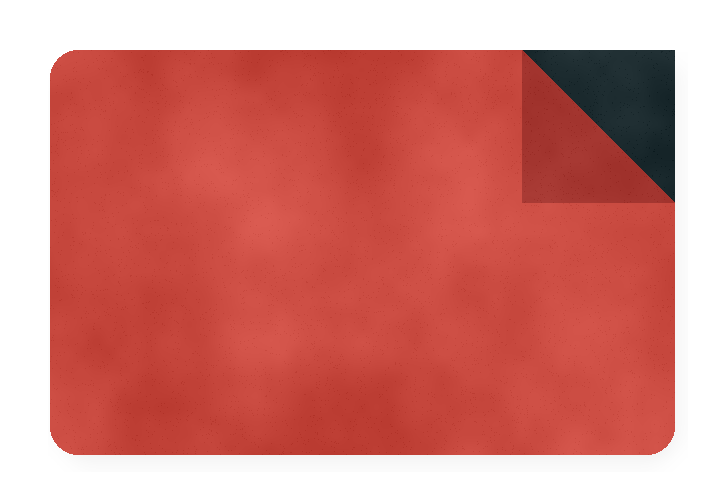
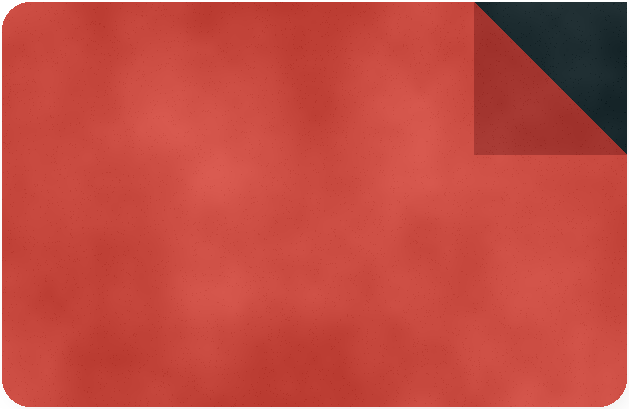
fix(arctable): dismiss pass panel on outside click; fix active plate layout
Crop transparent margins from pass-plate assets and tighten active-pass
grid/stacking so Hall pass content no longer sits under an inset red plate.
Close floating tool panels on pointerdown outside (Escape already handled).

diff --git a/src/styles/arctable.css b/src/styles/arctable.css
@@ -12,7 +12,7 @@
 .arctable-timer-control label,.arctable-cleanup-control label,.arctable-tool-panel label{display:grid;gap:5px;font-size:13px;font-weight:700}.arctable-timer-control input,.arctable-cleanup-control input,.arctable-tool-panel input,.arctable-tool-panel select{min-height:40px;padding:7px 9px;border:1px solid rgba(31,75,58,.24);border-radius:8px;background:#fffdf8;color:inherit}
 .arctable-presets,.arctable-timer-actions,.arctable-cleanup-control>div:last-child{display:flex;flex-wrap:wrap;gap:8px}.arctable-presets button,.arctable-timer-actions button,.arctable-cleanup-control button,.arctable-tool-panel button{min-height:40px;padding:8px 12px;border:1px solid rgba(31,75,58,.24);border-radius:999px;background:#fffdf8;color:#1f4b3a;font-weight:750;cursor:pointer}.arctable-timer-actions button:first-child,.arctable-cleanup-control>div:last-child button:first-child{background:#1f4b3a;color:#fff}
 .arctable-tool-row{grid-template-columns:repeat(3,1fr)}.arctable-tool-row button[aria-expanded='true']{box-shadow:inset 0 0 0 3px rgba(255,255,255,.62)}
-.arctable-tool-panel{position:relative;overflow:hidden}.arctable-tool-panel>*{position:relative;z-index:1}.arctable-tool-panel h2{margin:0;font:400 25px/1.1 'Instrument Serif',serif}.arctable-tool-panel form{display:grid;gap:8px}.arctable-tool-panel p{margin:0;color:#5d574f;line-height:1.35}.arctable-people-panel{background:rgba(225,233,213,.95) url('/assets/arctable/people-surface-open.png') right top/46% auto no-repeat}.arctable-picker-result{min-height:42px;padding:12px;border-radius:10px;background:#fffdf8;font-weight:800}.arctable-pass{display:grid;gap:8px;padding:13px 14px;border-radius:12px;background:#fffdf8 url('/assets/arctable/pass-plate-available.png') center/100% 100%}.arctable-pass--active{background-image:url('/assets/arctable/pass-plate-active.png');color:#fff}.arctable-pass>span{text-transform:capitalize}.arctable-pass>div{display:flex;flex-wrap:wrap;gap:6px}.arctable-pass--active button{background:#fff;color:#7d261f}.arctable-media-panel>button.is-active{background:#1f4b3a;color:#fff}
+.arctable-tool-panel{position:relative;overflow:hidden}.arctable-tool-panel>*{position:relative;z-index:1}.arctable-tool-panel h2{margin:0;font:400 25px/1.1 'Instrument Serif',serif}.arctable-tool-panel form{display:grid;gap:8px}.arctable-tool-panel p{margin:0;color:#5d574f;line-height:1.35}.arctable-people-panel{background:rgba(225,233,213,.95) url('/assets/arctable/people-surface-open.png') right top/46% auto no-repeat}.arctable-picker-result{min-height:42px;padding:12px;border-radius:10px;background:#fffdf8;font-weight:800}.arctable-pass{display:grid;gap:8px;align-content:start;padding:13px 14px;border-radius:12px;overflow:hidden;background-color:#fffdf8;background-image:url('/assets/arctable/pass-plate-available.png');background-position:center;background-size:100% 100%;background-repeat:no-repeat}.arctable-pass--active{background-color:#c44d43;background-image:url('/assets/arctable/pass-plate-active.png');color:#fff}.arctable-pass--requested{background-color:#ead7a8}.arctable-pass>div:first-child{display:flex;align-items:baseline;justify-content:space-between;gap:10px;min-width:0}.arctable-pass>div:first-child strong{min-width:0;overflow-wrap:anywhere}.arctable-pass>div:first-child span{flex:0 1 auto;text-align:right;text-transform:capitalize;opacity:.92}.arctable-pass label{min-width:0}.arctable-pass>div:last-child{display:flex;flex-wrap:wrap;gap:6px}.arctable-pass--active label>span{color:rgba(255,255,255,.92)}.arctable-pass--active select{color:#3a241f;background:#fffdf8}.arctable-pass--active button{background:#fff;color:#7d261f}.arctable-media-panel>button.is-active{background:#1f4b3a;color:#fff}
 .arctable-cleanup-control.is-active{background:#f6d68d url('/assets/arctable/cleanup-corner-accent.png') right bottom/110px no-repeat;border-color:#b78024}
 .arctable-media{display:grid;gap:10px;align-content:center}.arctable-media--empty span{color:#5d574f}.arctable-media--active{padding:30px;background:#171a18 url('/assets/arctable/media-apparatus-frame.png') center/100% 100%;color:#fff}.arctable-media--active img,.arctable-media--active iframe{display:block;width:100%;height:min(48vh,460px);border:0;border-radius:8px;object-fit:contain;background:#0c0d0c}.arctable-media.is-projected{margin-top:44px;min-height:320px}
 .arctable-student-class-time{margin-left:auto;font-size:13px;font-weight:750;text-transform:uppercase}.arctable-student-header time{margin-left:0}.arctable-projection-exit{min-height:40px;padding:8px 13px;border:1px solid rgba(255,255,255,.45);border-radius:999px;background:transparent;color:#fff;font-weight:750;cursor:pointer}.arctable-projected-person{margin:34px 0 0;padding:24px 30px;border-radius:16px;background:#dce5c7;font:400 clamp(30px,4vw,56px)/1.05 'Instrument Serif',serif;text-align:center}
@@ -20,7 +20,7 @@
 @media(prefers-reduced-motion:reduce){.arctable *{scroll-behavior:auto!important;animation-duration:.01ms!important;animation-iteration-count:1!important;transition-duration:.01ms!important}}
 
 /* Jury correction: the teaching field owns the room; utilities read as furniture, not a dashboard. */
-.arctable--teacher{padding:22px 34px 34px}.arctable-header{min-height:70px}.arctable-header-actions .quiet-button{border:0;border-bottom:1px solid currentColor;border-radius:0;background:transparent}.arctable-live-chip{border-radius:3px;padding-inline:14px}.arctable-teacher-layout{grid-template-columns:minmax(0,1fr) 292px;gap:32px}.arctable-board{min-height:calc(100dvh - 150px);padding:50px 54px;border:0;border-radius:4px;background:rgba(255,253,248,.72);box-shadow:0 20px 48px -46px #172e25}.arctable-progress{margin:-50px -54px 42px}.arctable-board h1{max-width:920px}.arctable-content-empty{max-width:620px;margin:36px 0;color:#6b6257;font:400 24px/1.35 'Instrument Serif',serif}.arctable-controls{position:relative;align-content:start;gap:0;padding-left:22px;border-left:1px solid rgba(31,75,58,.24)}.arctable-controls>.arctable-kicker{margin:2px 0 15px}.arctable-control-row,.arctable-control-field{min-height:54px;padding:12px 0;border:0;border-bottom:1px solid rgba(31,75,58,.16);border-radius:0;background:transparent}.arctable-control-field{gap:6px}.arctable-control-field input,.arctable-control-field select{border:0;border-bottom:1px solid rgba(31,75,58,.35);border-radius:0;background:transparent}.arctable-timer-control{margin-bottom:8px;padding:15px 10px 18px;border:0;border-radius:2px;background:transparent url('/assets/arctable/timer-well.png') center/100% 100% no-repeat}.arctable-timer-display{min-height:124px;background-size:122px 122px}.arctable-timer-control input{border-radius:2px}.arctable-tool-row{grid-template-columns:1fr;margin:16px 0 10px;border-top:1px solid rgba(31,75,58,.22)}.arctable-tool-row button{display:flex;align-items:center;justify-content:space-between;min-height:48px;padding:8px 2px;border:0;border-bottom:1px solid rgba(31,75,58,.22);border-radius:0;background:transparent!important;color:#244a3b;text-align:left}.arctable-tool-row button::after{content:'Open';color:#756b5f;font-size:11px;letter-spacing:.08em;text-transform:uppercase}.arctable-tool-row button[aria-expanded='true']{box-shadow:none;color:#a84927}.arctable-tool-row button[aria-expanded='true']::after{content:'Close'}.arctable-tool-panel{position:fixed;z-index:40;top:112px;right:34px;width:min(420px,calc(100vw - 40px));max-height:calc(100dvh - 140px);overflow:auto;padding:24px;border:1px solid rgba(31,75,58,.22);border-radius:4px;background:#f6f0e3;box-shadow:0 28px 70px -30px rgba(23,36,29,.62)}.arctable-tool-panel form{padding-bottom:16px;border-bottom:1px solid rgba(31,75,58,.18)}.arctable-tool-panel button{border-radius:3px}.arctable-picker-result{border-radius:2px;background:rgba(255,253,248,.64)}.arctable-pass{padding:14px 10px;border-radius:2px}.arctable-pass>div:first-child{display:flex;justify-content:space-between;gap:12px}.arctable-cleanup-control{margin-top:12px;padding:14px 0;border:0;border-top:2px solid #aa4a24;border-radius:0;background:transparent}.arctable-cleanup-control.is-active{padding:15px;background:#f2d58f url('/assets/arctable/cleanup-corner-accent.png') right bottom/100px no-repeat}.arctable-cleanup-control button,.arctable-timer-actions button,.arctable-presets button{border-radius:3px}.arctable-media{border-radius:4px}.arctable-student-facts>*{border-radius:3px}.arctable-tool-error{padding:10px 12px;border-left:3px solid #a84927;background:#fff7ea;color:#7a2c1d!important}.arctable button:focus-visible,.arctable input:focus-visible,.arctable select:focus-visible,.arctable textarea:focus-visible{outline:3px solid #176b87;outline-offset:3px}.arctable button{min-height:44px}.arctable-student-header time{margin-left:auto}.arctable--student .arctable-student-stage{min-height:calc(100dvh - 82px);align-items:center}.arctable--student .arctable-student-now{border-radius:4px;background:rgba(238,229,210,.82)}
+.arctable--teacher{padding:22px 34px 34px}.arctable-header{min-height:70px}.arctable-header-actions .quiet-button{border:0;border-bottom:1px solid currentColor;border-radius:0;background:transparent}.arctable-live-chip{border-radius:3px;padding-inline:14px}.arctable-teacher-layout{grid-template-columns:minmax(0,1fr) 292px;gap:32px}.arctable-board{min-height:calc(100dvh - 150px);padding:50px 54px;border:0;border-radius:4px;background:rgba(255,253,248,.72);box-shadow:0 20px 48px -46px #172e25}.arctable-progress{margin:-50px -54px 42px}.arctable-board h1{max-width:920px}.arctable-content-empty{max-width:620px;margin:36px 0;color:#6b6257;font:400 24px/1.35 'Instrument Serif',serif}.arctable-controls{position:relative;align-content:start;gap:0;padding-left:22px;border-left:1px solid rgba(31,75,58,.24)}.arctable-controls>.arctable-kicker{margin:2px 0 15px}.arctable-control-row,.arctable-control-field{min-height:54px;padding:12px 0;border:0;border-bottom:1px solid rgba(31,75,58,.16);border-radius:0;background:transparent}.arctable-control-field{gap:6px}.arctable-control-field input,.arctable-control-field select{border:0;border-bottom:1px solid rgba(31,75,58,.35);border-radius:0;background:transparent}.arctable-timer-control{margin-bottom:8px;padding:15px 10px 18px;border:0;border-radius:2px;background:transparent url('/assets/arctable/timer-well.png') center/100% 100% no-repeat}.arctable-timer-display{min-height:124px;background-size:122px 122px}.arctable-timer-control input{border-radius:2px}.arctable-tool-row{grid-template-columns:1fr;margin:16px 0 10px;border-top:1px solid rgba(31,75,58,.22)}.arctable-tool-row button{display:flex;align-items:center;justify-content:space-between;min-height:48px;padding:8px 2px;border:0;border-bottom:1px solid rgba(31,75,58,.22);border-radius:0;background:transparent!important;color:#244a3b;text-align:left}.arctable-tool-row button::after{content:'Open';color:#756b5f;font-size:11px;letter-spacing:.08em;text-transform:uppercase}.arctable-tool-row button[aria-expanded='true']{box-shadow:none;color:#a84927}.arctable-tool-row button[aria-expanded='true']::after{content:'Close'}.arctable-tool-panel{position:fixed;z-index:40;top:112px;right:34px;width:min(420px,calc(100vw - 40px));max-height:calc(100dvh - 140px);overflow:auto;padding:24px;border:1px solid rgba(31,75,58,.22);border-radius:4px;background:#f6f0e3;box-shadow:0 28px 70px -30px rgba(23,36,29,.62)}.arctable-tool-panel form{padding-bottom:16px;border-bottom:1px solid rgba(31,75,58,.18)}.arctable-tool-panel button{border-radius:3px}.arctable-picker-result{border-radius:2px;background:rgba(255,253,248,.64)}.arctable-pass{padding:14px 12px;border-radius:2px;gap:10px}.arctable-pass>div:first-child{display:flex;align-items:baseline;justify-content:space-between;gap:12px}.arctable-pass--active{box-shadow:inset 0 0 0 1px rgba(90,20,16,.18)}.arctable-cleanup-control{margin-top:12px;padding:14px 0;border:0;border-top:2px solid #aa4a24;border-radius:0;background:transparent}.arctable-cleanup-control.is-active{padding:15px;background:#f2d58f url('/assets/arctable/cleanup-corner-accent.png') right bottom/100px no-repeat}.arctable-cleanup-control button,.arctable-timer-actions button,.arctable-presets button{border-radius:3px}.arctable-media{border-radius:4px}.arctable-student-facts>*{border-radius:3px}.arctable-tool-error{padding:10px 12px;border-left:3px solid #a84927;background:#fff7ea;color:#7a2c1d!important}.arctable button:focus-visible,.arctable input:focus-visible,.arctable select:focus-visible,.arctable textarea:focus-visible{outline:3px solid #176b87;outline-offset:3px}.arctable button{min-height:44px}.arctable-student-header time{margin-left:auto}.arctable--student .arctable-student-stage{min-height:calc(100dvh - 82px);align-items:center}.arctable--student .arctable-student-now{border-radius:4px;background:rgba(238,229,210,.82)}
 @media(max-width:900px){.arctable--teacher{padding:18px}.arctable-teacher-layout{grid-template-columns:1fr;gap:22px}.arctable-board{padding:34px 24px}.arctable-progress{margin:-34px -24px 28px}.arctable-controls{padding:18px 0 0;border-top:1px solid rgba(31,75,58,.24);border-left:0}.arctable-tool-panel{top:82px;right:16px;width:calc(100vw - 32px);max-height:calc(100dvh - 100px)}.arctable-tool-row{grid-template-columns:repeat(3,1fr)}.arctable-tool-row button{justify-content:center}.arctable-tool-row button::after{display:none}}
 .arctable-tool-panel{right:340px}@media(max-width:900px){.arctable-tool-panel{right:16px}}
 .arctable-tool-row button::after{content:none}

diff --git a/src/components/ArcTableSurfaces.tsx b/src/components/ArcTableSurfaces.tsx
@@ -1,4 +1,4 @@
-import { useEffect, useState } from 'react'
+import { useEffect, useRef, useState } from 'react'
 import {
   ARC_TABLE_MAX_COUNTDOWN_SECONDS,
   addArcTablePassDefinition,
@@ -43,6 +43,8 @@ export function ArcTableTeacherMonitor({ live, onOpenPlan, onShowStudent, onUpda
   const [mediaError, setMediaError] = useState<string | null>(null)
   const [passLabel, setPassLabel] = useState('')
   const [passPeople, setPassPeople] = useState<Record<string, string>>({})
+  const toolPanelRef = useRef<HTMLElement>(null)
+  const toolRowRef = useRef<HTMLDivElement>(null)
   const now = useClock()
   const classElapsed = elapsedLiveMinutes(live, now)
   const timerRemaining = countdownRemaining(live.timer, now)
@@ -52,10 +54,22 @@ export function ArcTableTeacherMonitor({ live, onOpenPlan, onShowStudent, onUpda
   const activeMedia = live.media.items.find((item) => item.id === live.media.activeId) ?? null
   useSettleCountdowns(live, now, onUpdate)
   useEffect(() => {
+    if (!tool) return
     const closeTool = (event: KeyboardEvent) => { if (event.key === 'Escape') setTool(null) }
     window.addEventListener('keydown', closeTool)
     return () => window.removeEventListener('keydown', closeTool)
-  }, [])
+  }, [tool])
+  useEffect(() => {
+    if (!tool) return
+    function closeOnOutsidePointer(event: PointerEvent) {
+      const target = event.target as Node
+      if (toolPanelRef.current?.contains(target)) return
+      if (toolRowRef.current?.contains(target)) return
+      setTool(null)
+    }
+    document.addEventListener('pointerdown', closeOnOutsidePointer)
+    return () => document.removeEventListener('pointerdown', closeOnOutsidePointer)
+  }, [tool])
 
   useEffect(() => {
     const launch = consumeArcTableDeskLaunch()
@@ -144,13 +158,13 @@ export function ArcTableTeacherMonitor({ live, onOpenPlan, onShowStudent, onUpda
           <label className="arctable-control-field"><strong>Voice expectation</strong><select value={live.voiceLevel} onChange={(event) => onUpdate({ voiceLevel: Number(event.target.value) as 1 | 2 | 3 })}><option value="1">Level 1</option><option value="2">Level 2</option><option value="3">Level 3</option></select></label>
           <button type="button" className="arctable-control-row" onClick={() => onUpdate({ boardLocked: !live.boardLocked })}><strong>Board</strong><span>{live.boardLocked ? 'Locked' : 'Editable'}</span></button>
           <button type="button" className="arctable-control-row" onClick={onShowStudent}><strong>Student preview</strong><span>Open projected view</span></button>
-          <div className="arctable-tool-row">
+          <div className="arctable-tool-row" ref={toolRowRef}>
             <button type="button" aria-expanded={tool === 'people'} onClick={() => setTool(tool === 'people' ? null : 'people')}>People picker</button>
             <button type="button" aria-expanded={tool === 'passes'} onClick={() => setTool(tool === 'passes' ? null : 'passes')}>Pass tools</button>
             <button type="button" aria-expanded={tool === 'media'} onClick={() => setTool(tool === 'media' ? null : 'media')}>Media</button>
           </div>
           {tool === 'people' ? (
-            <section className="arctable-tool-panel arctable-people-panel" aria-labelledby="people-picker-heading">
+            <section ref={toolPanelRef} className="arctable-tool-panel arctable-people-panel" aria-labelledby="people-picker-heading">
               <h2 id="people-picker-heading">People · {live.session.sectionName}</h2>
               <form onSubmit={addPerson}><label><span>Student name</span><input value={personName} onChange={(event) => setPersonName(event.target.value)} /></label><button type="submit">Add</button></form>
               {live.people.roster.length === 0 ? <p>No roster yet. Names added here are saved for this Section’s future classes.</p> : <p>{live.people.roster.length} students saved for {live.session.sectionName}.</p>}
@@ -161,14 +175,14 @@ export function ArcTableTeacherMonitor({ live, onOpenPlan, onShowStudent, onUpda
             </section>
           ) : null}
           {tool === 'passes' ? (
-            <section className="arctable-tool-panel arctable-pass-panel" aria-labelledby="pass-tools-heading">
+            <section ref={toolPanelRef} className="arctable-tool-panel arctable-pass-panel" aria-labelledby="pass-tools-heading">
               <h2 id="pass-tools-heading">Passes · {live.session.sectionName}</h2>
               <form onSubmit={addPass}><label><span>Pass type</span><input value={passLabel} placeholder="Restroom, Office…" onChange={(event) => setPassLabel(event.target.value)} /></label><button type="submit">Add pass type</button></form>
               {live.passes.passes.map((pass) => { const owner = live.people.roster.find((person) => person.id === pass.personId); const personId = passPeople[pass.id] || ''; return <div className={`arctable-pass arctable-pass--${pass.status}`} key={pass.id}><div><strong>{pass.label}</strong><span>{pass.status}{owner ? ` · ${owner.name}` : ' · unassigned'}</span></div><label><span>Person · optional</span><select aria-label={`${pass.label} person`} value={personId} onChange={(event) => setPassPeople((current) => ({ ...current, [pass.id]: event.target.value }))}><option value="">Generic pass</option>{live.people.roster.map((person) => <option key={person.id} value={person.id}>{person.name}</option>)}</select></label><div><button type="button" aria-label={`Request ${pass.label}`} onClick={() => onUpdate({ passes: setArcTablePassStatus(live.passes, pass.id, 'requested', personId || null) })}>Request</button><button type="button" aria-label={`Activate ${pass.label}`} onClick={() => onUpdate({ passes: setArcTablePassStatus(live.passes, pass.id, 'active', personId || pass.personId) })}>Activate</button><button type="button" aria-label={`Return ${pass.label}`} onClick={() => onUpdate({ passes: setArcTablePassStatus(live.passes, pass.id, 'inactive') })}>Return</button></div></div> })}
             </section>
           ) : null}
           {tool === 'media' ? (
-            <section className="arctable-tool-panel arctable-media-panel" aria-labelledby="media-tools-heading">
+            <section ref={toolPanelRef} className="arctable-tool-panel arctable-media-panel" aria-labelledby="media-tools-heading">
               <h2 id="media-tools-heading">Media · {live.session.sectionName}</h2>
               <form onSubmit={addMedia}><label><span>Title</span><input value={mediaTitle} onChange={(event) => setMediaTitle(event.target.value)} /></label><label><span>Source URL or path</span><input value={mediaSource} onChange={(event) => setMediaSource(event.target.value)} /></label><label><span>Type</span><select value={mediaKind} onChange={(event) => setMediaKind(event.target.value as 'image' | 'slides')}><option value="image">Artwork / image</option><option value="slides">Presentation / slides</option></select></label><button type="submit">Add media</button></form>
               {mediaError ? <p role="alert" className="arctable-tool-error">{mediaError}</p> : null}
